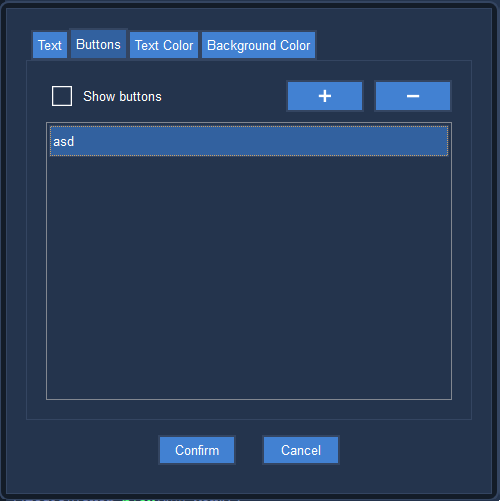
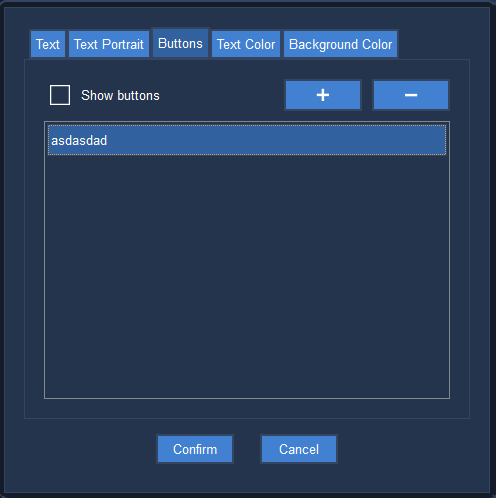
Finished documentation for PlayerTextBox

diff --git a/resources/help/editor/addtext_button_help.html b/resources/help/editor/addtext_button_help.html
@@ -54,10 +54,31 @@
 
     <p>The first tab contains a text editor that lets you enter the text to be displayed. Anything entered
     will generate code to show the text in a single textbox if the <i>Show text</i> check box is checked.
-    If <i>Show user input</i> is checked, code will be generated to prompt for user input instead.<br>
+    If <i>Show user input</i> is checked, code will be generated to prompt for user input instead.
+    If <i>Set Text Alignment</i> is set, code will be generated to set text alignment.<br>
       <ul>
         <li><b>Generated code example for <i>Show text</i>:</b> textBox.showText("Hello World!");</li>
-        <li><b>Generated code example for <i>Show user input</i>:</b> var sInput = textBox.showInput(); // TODO: change variable name"</li>
+        <li><b>Generated code example for <i>Show user input</i>:</b> var sInput = textBox.showInput(); // TODO: change variable name</li>
+        <li><b>Generated code example for <i>Set text alignment</i>:</b> textBox.setTextAlignment(TextAlignment.AlignCenter);</li>
+      </ul>
+    </p>
+
+    <br>
+
+    <p><img src="qrc:/resources/help/editor/images/addtext_dialog_textportrait.png"><br><i>Add Text Code Dialog (Text Tab)</i></p>
+
+    <br>
+
+    <p>The second tab contains a tree to browse <a href="qrc:/resources/help/editor/resources/resource_help.html">Resources</a>
+    including a search bar similar to the <a href="qrc:/resources/help/editor/resources/resources_tree_help.html">Resource Tree</a>
+    in the <a href="qrc:/resources/help/editor/selection_combobox_help.html">Resource Manager</a>.
+    Clicking a tree item will select the resource for the generated code snippet. Checking
+    <i>Set portrait</i> will generate code to set the currently selected Resource as a portrait for
+    future calls to <i>showText</i>. If no <i>Image</i> or <i>Movie</i> type resource is selected,
+    checking the checkbox will generate code to remove the portrait.<br>
+      <ul>
+        <li><b>Generated code example for <i>Set portrait</i>:</b> textBox.setTextPortrait("thing"); // valid resource selected</li>
+        <li><b>Generated code example for <i>Set portrait</i>:</b> textBox.setTextPortrait(null); // invalid or no resource selected</li>
       </ul>
     </p>
 
